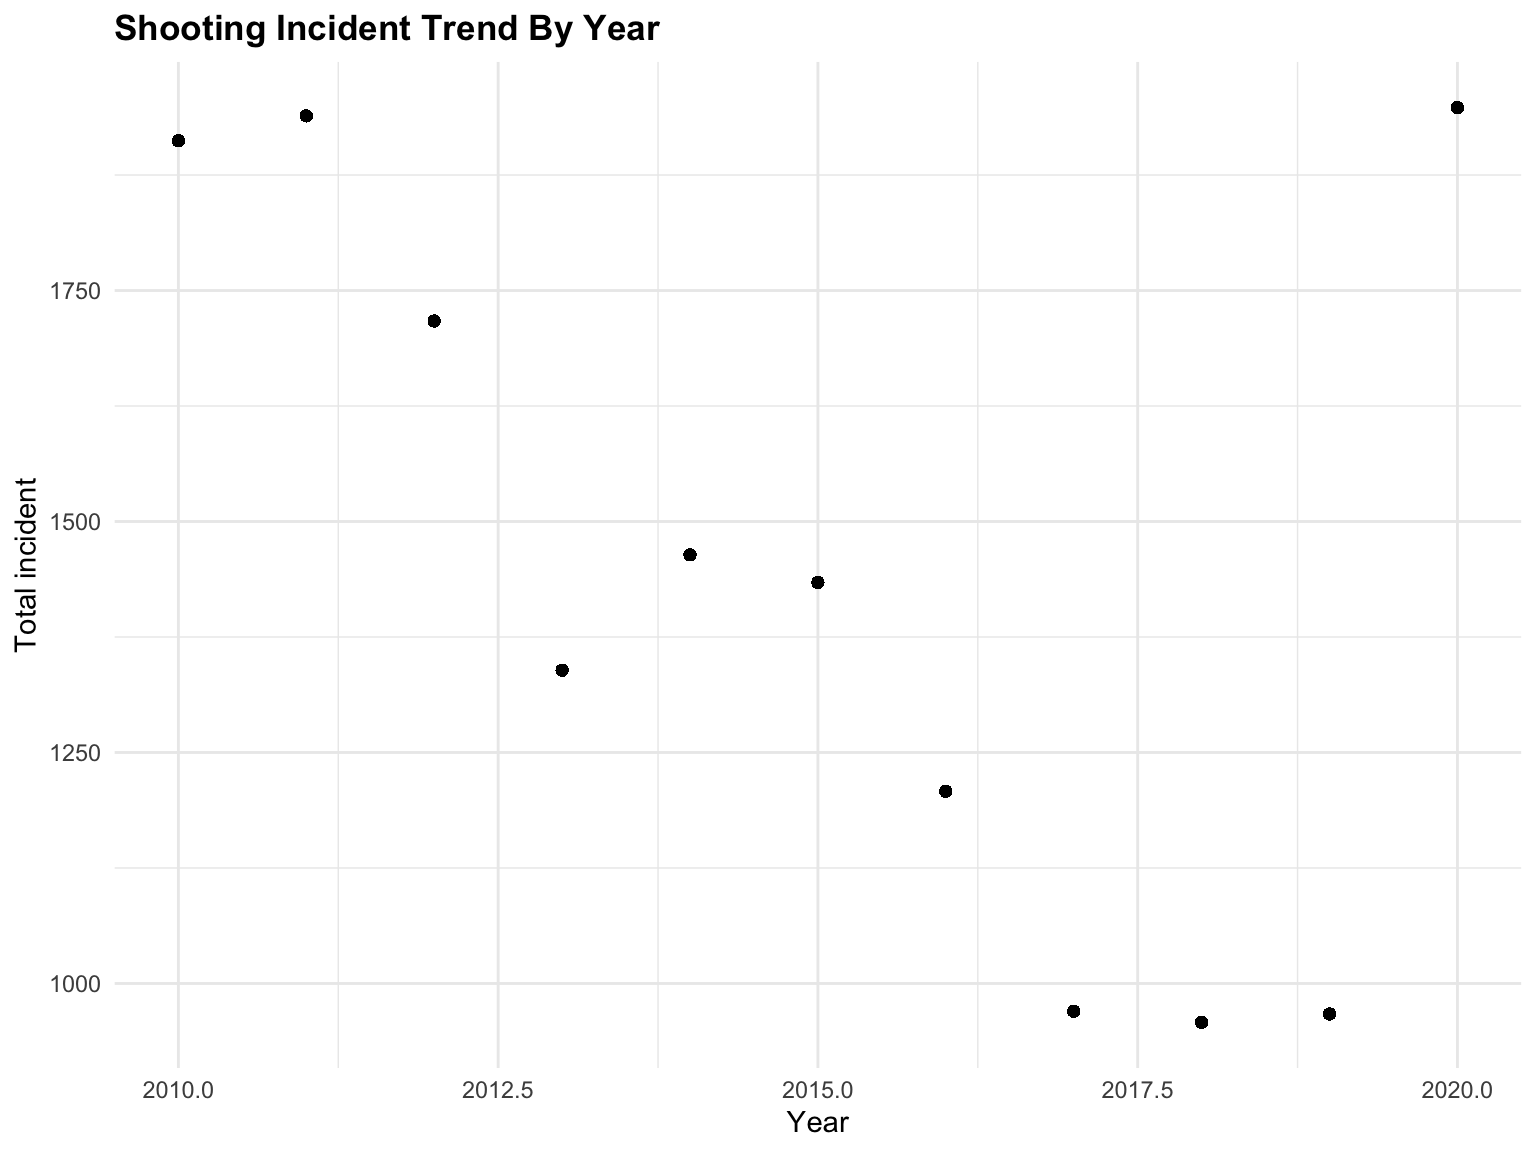
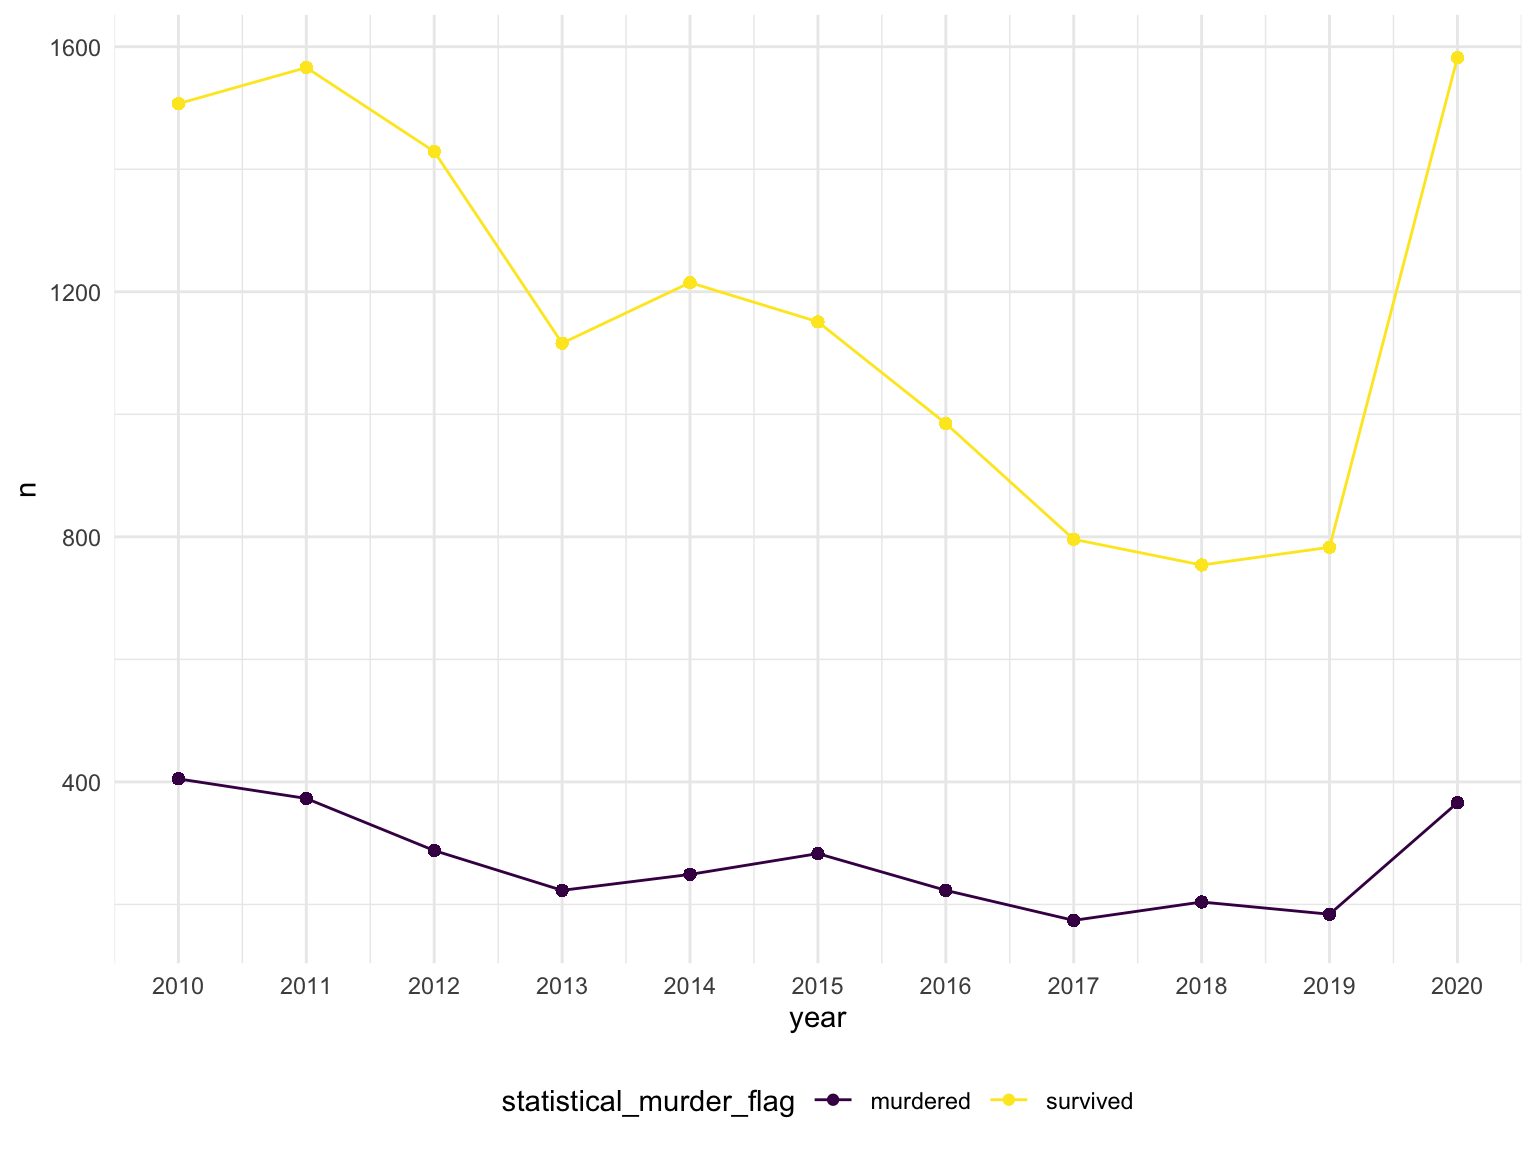
new knit

diff --git a/analysis.html b/analysis.html
@@ -363,7 +363,11 @@ div.tocify {
 <pre class="r"><code>data_hist = 
 
  
-  read_csv(&quot;data/NYPD_Shooting_Incident_Data_Clean.csv&quot;) </code></pre>
+  read_csv(&quot;data/NYPD_Shooting_Incident_Data_Clean.csv&quot;) %&gt;%
+  mutate(
+    statistical_murder_flag = as.character(statistical_murder_flag),
+    statistical_murder_flag = recode(statistical_murder_flag, &quot;FALSE&quot; = &quot;survived&quot;,&quot;TRUE&quot; = &quot;murdered&quot;)
+  )</code></pre>
 <pre><code>## Rows: 23585 Columns: 22</code></pre>
 <pre><code>## ── Column specification ────────────────────────────────────────────────────────
 ## Delimiter: &quot;,&quot;
@@ -373,20 +377,51 @@ div.tocify {
 <pre><code>## 
 ## ℹ Use `spec()` to retrieve the full column specification for this data.
 ## ℹ Specify the column types or set `show_col_types = FALSE` to quiet this message.</code></pre>
-<p>##2010-2020 total shooting incident trend by year</p>
+<pre class="r"><code>data_hist</code></pre>
+<pre><code>## # A tibble: 23,585 × 22
+##    incident_key month day    year hour  minute boro      precinct jurisdiction_co…
+##           &lt;dbl&gt; &lt;chr&gt; &lt;chr&gt; &lt;dbl&gt; &lt;chr&gt; &lt;chr&gt;  &lt;chr&gt;        &lt;dbl&gt; &lt;chr&gt;           
+##  1      9953245 01    01     2006 02    00     bronx           48 patrol          
+##  2      9953252 01    01     2006 02    22     manhattan       28 patrol          
+##  3      9953250 01    01     2006 02    34     queens         114 patrol          
+##  4      9953250 01    01     2006 02    34     queens         114 patrol          
+##  5      9953247 01    01     2006 03    30     brooklyn        67 patrol          
+##  6      9953246 01    01     2006 05    51     bronx           44 patrol          
+##  7    139716503 01    01     2006 12    30     brooklyn        77 patrol          
+##  8      9953248 01    01     2006 19    00     queens         106 patrol          
+##  9      9953249 01    02     2006 00    49     brooklyn        90 housing         
+## 10      9953255 01    02     2006 03    59     brooklyn        70 patrol          
+## # … with 23,575 more rows, and 13 more variables: location_desc &lt;chr&gt;,
+## #   statistical_murder_flag &lt;chr&gt;, perp_age_group &lt;chr&gt;, perp_sex &lt;chr&gt;,
+## #   perp_race &lt;chr&gt;, vic_age_group &lt;chr&gt;, vic_sex &lt;chr&gt;, vic_race &lt;chr&gt;,
+## #   x_coord_cd &lt;dbl&gt;, y_coord_cd &lt;dbl&gt;, latitude &lt;dbl&gt;, longitude &lt;dbl&gt;,
+## #   lon_lat &lt;chr&gt;</code></pre>
+<p>##2010-2020 total shooting incident trends by year</p>
 <pre class="r"><code>year_plot = 
   data_hist %&gt;% 
-  filter(year &gt;= 2010) %&gt;% 
-  group_by(year) %&gt;%
+  filter(year &gt;= 2010
+         ) %&gt;% 
+  group_by(year, statistical_murder_flag) %&gt;%
   mutate(n = n()) %&gt;% 
-  ggplot(aes(x = year, y = n)) + 
-  geom_point() +
+  ggplot(aes(x = year, y = n, color = statistical_murder_flag)) + scale_x_continuous(breaks = seq(2010, 2020, by = 1))+
+  geom_point() + geom_line()
+  #facet_grid(~statistical_murder_flag)
   labs(x = &quot;Year&quot;,
        y = &quot;Total incident&quot;,
        title = &quot;Shooting Incident Trend By Year&quot;
-       )
-
-year_plot</code></pre>
+       )</code></pre>
+<pre><code>## $x
+## [1] &quot;Year&quot;
+## 
+## $y
+## [1] &quot;Total incident&quot;
+## 
+## $title
+## [1] &quot;Shooting Incident Trend By Year&quot;
+## 
+## attr(,&quot;class&quot;)
+## [1] &quot;labels&quot;</code></pre>
+<pre class="r"><code>year_plot</code></pre>
 <p><img src="analysis_files/figure-html/unnamed-chunk-3-1.png" width="90%" /></p>
 <p>##2010-2020 total shooting incident trend by perpetrator’s sex</p>
 <pre class="r"><code>perp_sex_plot = 
@@ -503,7 +538,7 @@ vic_age_plot</code></pre>
 
 boro_plot</code></pre>
 <p><img src="analysis_files/figure-html/unnamed-chunk-10-1.png" width="90%" /></p>
-<p>##2010-2020 total shooting incident by hour in day</p>
+<p>##2010-2020 total shooting incident by hour in a day</p>
 <pre class="r"><code>incident_by_hour =
   data_hist %&gt;%
   filter(year &gt;= 2010) %&gt;% 
